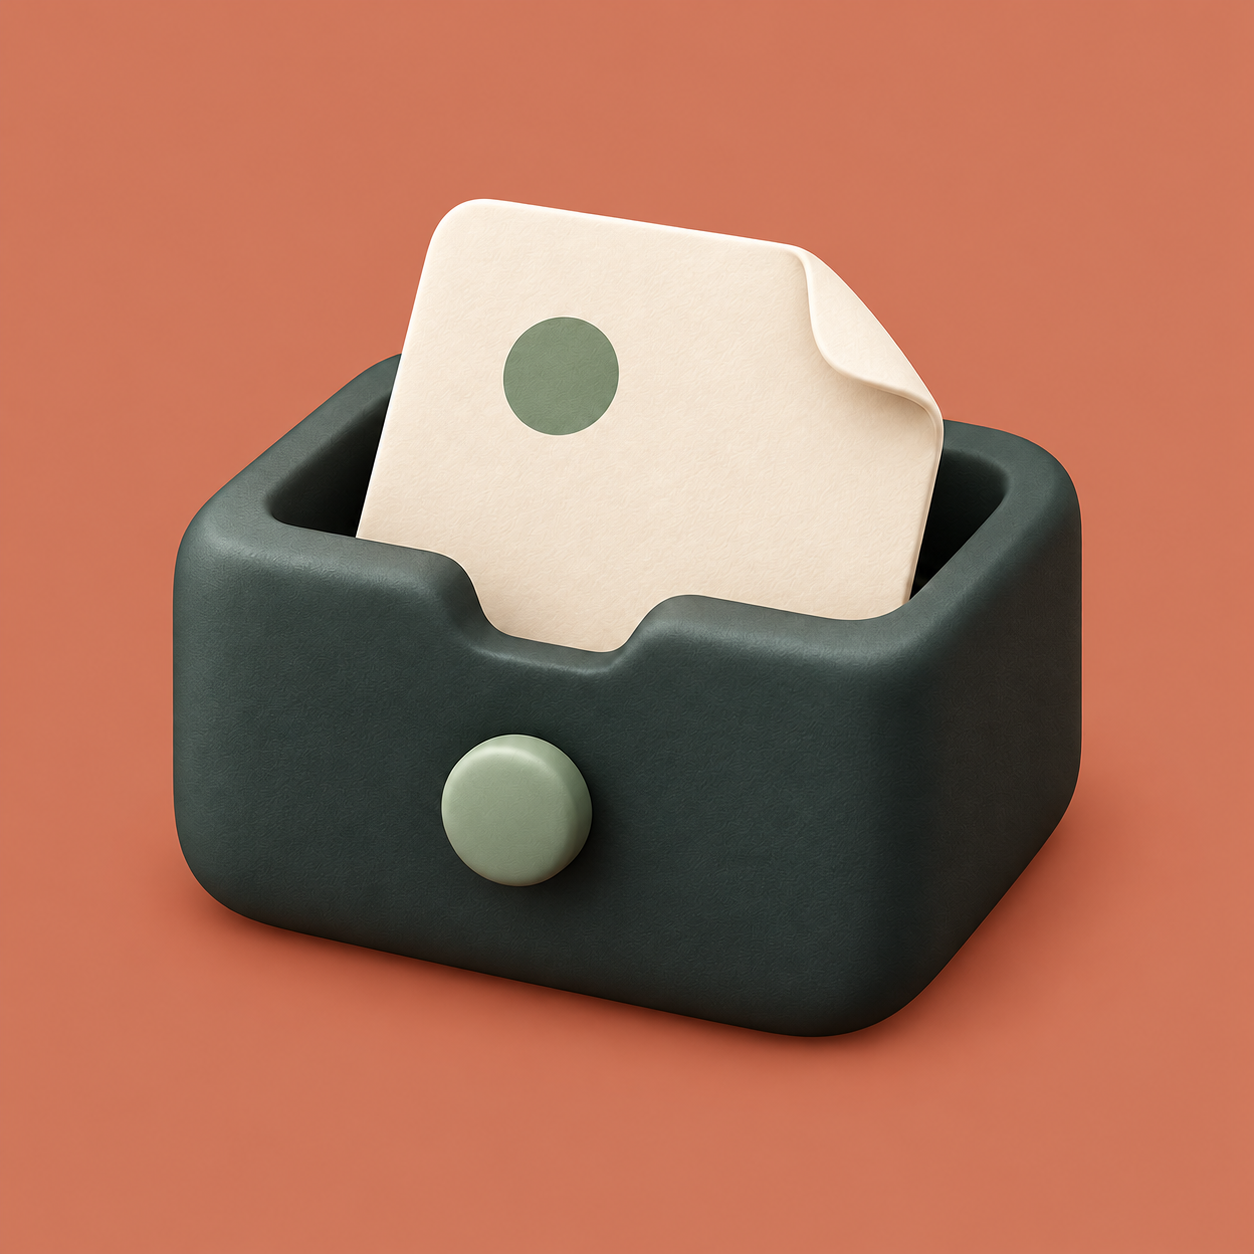
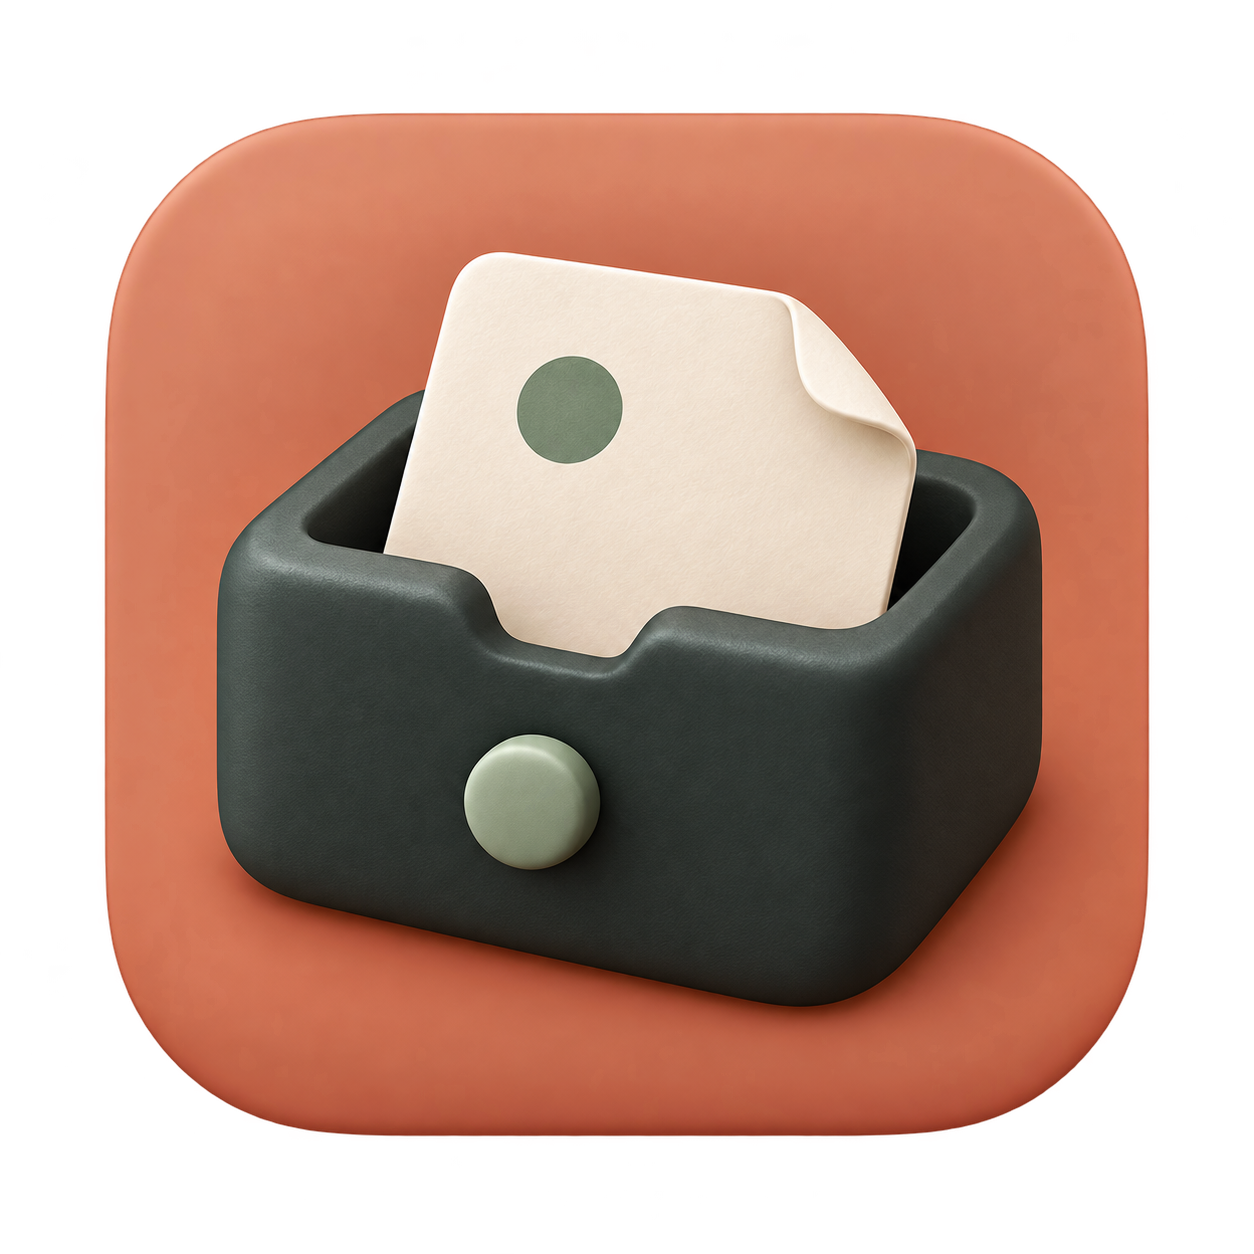
fix: refine 3D macOS artwork and verify shortcut conflicts and DMG layout

diff --git a/NianBox/Views/Settings/ShortcutRecorder.swift b/NianBox/Views/Settings/ShortcutRecorder.swift
@@ -35,11 +35,24 @@ struct ShortcutRecorder: NSViewRepresentable {
         var onRecording: ((Bool) -> Void)?
         var onError: ((String) -> Void)?
         private(set) var recording = false
+        private var sawModifiers = false
         override var acceptsFirstResponder: Bool { true }
+
+        override func viewDidMoveToWindow() {
+            super.viewDidMoveToWindow()
+            NotificationCenter.default.removeObserver(self, name: NSWindow.didResignKeyNotification, object: nil)
+            if let window {
+                NotificationCenter.default.addObserver(self, selector: #selector(windowLostFocus),
+                    name: NSWindow.didResignKeyNotification, object: window)
+            } else { finishRecording() }
+        }
+
+        @objc private func windowLostFocus(_ notification: Notification) { finishRecording() }
 
         @objc func beginRecording() {
             if recording { finishRecording(); return }
             recording = true
+            sawModifiers = false
             onRecording?(true)
             title = "Press shortcut…"
             window?.makeFirstResponder(self)
@@ -53,6 +66,17 @@ struct ShortcutRecorder: NSViewRepresentable {
         }
 
         override func resignFirstResponder() -> Bool { finishRecording(); return super.resignFirstResponder() }
+        override func flagsChanged(with event: NSEvent) {
+            guard recording else { super.flagsChanged(with: event); return }
+            if !event.modifierFlags.intersection([.command, .option, .control, .shift]).isEmpty {
+                sawModifiers = true
+            } else if sawModifiers {
+                // An OS/global binding can consume the character before AppKit sees it.
+                // Detect the completed modifier gesture without adding an event tap or permission prompt.
+                onError?("macOS or another app intercepted this combination. Try another shortcut.")
+                finishRecording()
+            }
+        }
         override func performKeyEquivalent(with event: NSEvent) -> Bool {
             guard recording else { return super.performKeyEquivalent(with: event) }
             keyDown(with: event)

diff --git a/Scripts/render_dmg_background.swift b/Scripts/render_dmg_background.swift
@@ -1,12 +1,14 @@
 import AppKit
 import Foundation
 let output = CommandLine.arguments[1]
-let bitmap = NSBitmapImageRep(bitmapDataPlanes: nil, pixelsWide: 1400, pixelsHigh: 920,
+let scale = Int(CommandLine.arguments[2])!
+precondition([1, 2].contains(scale))
+let bitmap = NSBitmapImageRep(bitmapDataPlanes: nil, pixelsWide: 700 * scale, pixelsHigh: 460 * scale,
     bitsPerSample: 8, samplesPerPixel: 4, hasAlpha: true, isPlanar: false,
     colorSpaceName: .deviceRGB, bytesPerRow: 0, bitsPerPixel: 0)!
 NSGraphicsContext.saveGraphicsState()
 NSGraphicsContext.current = NSGraphicsContext(bitmapImageRep: bitmap)
-let transform = NSAffineTransform(); transform.scale(by: 2); transform.concat()
+let transform = NSAffineTransform(); transform.scale(by: CGFloat(scale)); transform.concat()
 NSColor(calibratedRed: 0.965, green: 0.949, blue: 0.922, alpha: 1).setFill()
 NSRect(x: 0, y: 0, width: 700, height: 460).fill()
 let ink = NSColor(calibratedRed: 0.19, green: 0.24, blue: 0.22, alpha: 1)
@@ -24,4 +26,5 @@ arrow.move(to: NSPoint(x: 375, y: 232)); arrow.line(to: NSPoint(x: 390, y: 217))
 arrow.lineWidth = 3; arrow.lineCapStyle = .round; arrow.lineJoinStyle = .round
 NSColor(calibratedRed: 0.70, green: 0.43, blue: 0.34, alpha: 1).setStroke(); arrow.stroke()
 NSGraphicsContext.restoreGraphicsState()
+bitmap.size = NSSize(width: 700, height: 460)
 try bitmap.representation(using: .png, properties: [:])!.write(to: URL(fileURLWithPath: output))

diff --git a/Scripts/vm_ui_probe.swift b/Scripts/vm_ui_probe.swift
@@ -57,11 +57,23 @@ struct VMUIProbe {
         settle()
     }
     static func key(_ code: CGKeyCode, flags: CGEventFlags = []) {
+        let modifiers: [(CGEventFlags, CGKeyCode)] = [(.maskControl, 59), (.maskAlternate, 58), (.maskShift, 56), (.maskCommand, 55)]
+        var held: CGEventFlags = []
+        for (flag, keyCode) in modifiers where flags.contains(flag) {
+            held.insert(flag)
+            let event = CGEvent(keyboardEventSource: nil, virtualKey: keyCode, keyDown: true)!
+            event.flags = held; event.post(tap: .cghidEventTap); settle(0.04)
+        }
         for down in [true, false] {
             let event = CGEvent(keyboardEventSource: nil, virtualKey: code, keyDown: down)!
-            event.flags = down ? flags : []
+            event.flags = flags
             event.post(tap: .cghidEventTap)
             settle(0.05)
+        }
+        for (flag, keyCode) in modifiers.reversed() where flags.contains(flag) {
+            held.remove(flag)
+            let event = CGEvent(keyboardEventSource: nil, virtualKey: keyCode, keyDown: false)!
+            event.flags = held; event.post(tap: .cghidEventTap); settle(0.04)
         }
         settle()
     }

diff --git a/Scripts/package_dmg.py b/Scripts/package_dmg.py
@@ -9,13 +9,16 @@ import plistlib
 import shutil
 import subprocess
 import tempfile
+import dmgbuild
 from ds_store import DSStore
-from mac_alias import Alias
 
 ROOT = Path(__file__).resolve().parent.parent
 
 def run(*command):
-    return subprocess.check_output([str(x) for x in command], stderr=subprocess.PIPE)
+    try:
+        return subprocess.check_output([str(x) for x in command], stderr=subprocess.PIPE)
+    except subprocess.CalledProcessError as error:
+        raise RuntimeError(error.stderr.decode(errors='replace').strip()) from error
 
 def mount(image, point, readonly=False):
     command = ['hdiutil', 'attach', '-nobrowse', '-noautoopen', '-mountpoint', str(point), '-plist']
@@ -29,7 +32,7 @@ def inspect(mounted, version):
     assert info['CFBundleIdentifier'] == 'org.nianbox.NianBox'
     assert info['CFBundleShortVersionString'] == version
     assert os.readlink(mounted / 'Applications') == '/Applications'
-    assert (mounted / '.background/background.png').is_file()
+    assert (mounted / '.background.tiff').is_file()
     assert (mounted / 'READ ME.txt').is_file()
     run('codesign', '--verify', '--strict', '--deep', app)
     architectures = run('lipo', '-archs', app / 'Contents/MacOS/NianBox').decode().split()
@@ -41,6 +44,8 @@ def inspect(mounted, version):
     with DSStore.open(str(mounted / '.DS_Store'), 'r') as store:
         assert store['.']['vSrn'] == (b'long', 1)
         assert store['.']['icvp']['backgroundType'] == 2
+        assert store['.']['icvp']['iconSize'] == 96.0
+        assert store['.']['bwsp']['WindowBounds'] == '{{160, 160}, {700, 460}}'
         assert store['NianBox.app']['Iloc'] == (180, 235)
         assert store['Applications']['Iloc'] == (520, 235)
     return {'version': version, 'architectures': architectures, 'bundleID': info['CFBundleIdentifier'],
@@ -75,11 +80,10 @@ def main():
         output.parent.mkdir(parents=True, exist_ok=True)
         staging = workspace / 'staging'
         staging.mkdir()
-        run('ditto', app, staging / 'NianBox.app')
-        (staging / 'Applications').symlink_to('/Applications')
-        (staging / '.background').mkdir()
-        run('swift', '-module-cache-path', workspace / 'swift-cache', ROOT / 'Scripts/render_dmg_background.swift',
-            staging / '.background/background.png')
+        for scale in (1, 2):
+            background = staging / ('background.png' if scale == 1 else 'background@2x.png')
+            run('swift', '-module-cache-path', workspace / 'swift-cache', ROOT / 'Scripts/render_dmg_background.swift',
+                background, scale)
         (staging / 'READ ME.txt').write_text(
             '念匣 · NianBox\n\n1. 将 NianBox 拖到 Applications。\n2. 从应用程序打开 NianBox。\n'
             '3. 从菜单栏进入设置；点击 Quick capture shortcut 可录制快捷键。\n'
@@ -90,31 +94,26 @@ def main():
             'review System Settings → Privacy & Security → Open Anyway. Keep Gatekeeper enabled.\n\n'
             'https://github.com/takboo/nianbox\n', encoding='utf-8')
         shutil.copyfile(ROOT / 'LICENSE', staging / 'LICENSE.txt')
-        writable = workspace / 'layout.dmg'
-        run('hdiutil', 'create', '-volname', 'NianBox', '-fs', 'HFS+', '-format', 'UDRW',
-            '-srcfolder', staging, writable)
-        mount(writable, point)
+        candidate = workspace / 'final.dmg'
+        # dmgbuild writes complete Finder view settings and a multi-resolution TIFF,
+        # without AppleScript, Finder automation, Accessibility or host input.
+        dmgbuild.build_dmg(str(candidate), 'NianBox', settings={
+            'format': 'UDZO', 'compression_level': 9, 'filesystem': 'HFS+',
+            'files': [str(app), str(staging / 'READ ME.txt'), str(staging / 'LICENSE.txt')],
+            'symlinks': {'Applications': '/Applications'},
+            'background': str(staging / 'background.png'),
+            'window_rect': ((160, 160), (700, 460)),
+            'icon_size': 96, 'text_size': 14,
+            'default_view': 'icon-view', 'include_icon_view_settings': True,
+            'include_list_view_settings': False,
+            'icon_locations': {'NianBox.app': (180, 235), 'Applications': (520, 235),
+                               'READ ME.txt': (750, 600), 'LICENSE.txt': (850, 600)},
+        })
+        mount(candidate, point, readonly=True)
         try:
-            with DSStore.open(str(point / '.DS_Store'), 'w+') as store:
-                store['.']['bwsp'] = {'ShowStatusBar': False, 'ShowToolbar': False,
-                    'ShowPathbar': False, 'ShowSidebar': False, 'WindowBounds': '{{160, 160}, {700, 460}}'}
-                store['.']['icvp'] = {'viewOptionsVersion': 1, 'backgroundType': 2,
-                    'backgroundImageAlias': Alias.for_file(str(point / '.background/background.png')).to_bytes(),
-                    'iconSize': 96.0, 'textSize': 14.0, 'labelOnBottom': True,
-                    'showIconPreview': False, 'showItemInfo': False, 'arrangeBy': 'none',
-                    'gridSpacing': 100.0, 'gridOffsetX': 0.0, 'gridOffsetY': 0.0,
-                    'scrollPositionX': 0.0, 'scrollPositionY': 0.0}
-                store['.']['vSrn'] = ('long', 1)
-                store['.']['icvl'] = ('type', b'icnv')
-                store['NianBox.app']['Iloc'] = (180, 235)
-                store['Applications']['Iloc'] = (520, 235)
-                store['READ ME.txt']['Iloc'] = (750, 600)
-                store['LICENSE.txt']['Iloc'] = (850, 600)
             inspect(point, version)
         finally:
             run('hdiutil', 'detach', point)
-        candidate = workspace / 'final.dmg'
-        run('hdiutil', 'convert', writable, '-format', 'UDZO', '-imagekey', 'zlib-level=9', '-o', candidate)
         # Exclusively create the destination; a retry cannot replace another release artifact.
         with candidate.open('rb') as source, output.open('xb') as target:
             shutil.copyfileobj(source, target)

diff --git a/Scripts/vm_ui_smoke.py b/Scripts/vm_ui_smoke.py
@@ -16,6 +16,7 @@ parser.add_argument('--source', type=Path, required=True)
 parser.add_argument('--output', type=Path, required=True)
 parser.add_argument('--fixture', type=Path)
 parser.add_argument('--shortcut-holder', type=Path)
+parser.add_argument('--only', action='append', help='Run only the named check (repeatable)')
 args = parser.parse_args()
 model = subprocess.check_output(['/usr/sbin/sysctl', '-n', 'hw.model'], text=True).strip()
 if not model.startswith('VirtualMac'):
@@ -122,6 +123,8 @@ def task_id(title):
 
 
 def check(name, function):
+    if args.only and name not in args.only:
+        return
     started = time.monotonic()
     try:
         function()
@@ -251,7 +254,7 @@ def hermes():
 
 def configurable_shortcut():
     launch(normal=True)
-    probe('key', 'shortcut')
+    probe('move', '1439', '1')
     probe('click', 'id=settings-button')
     control = 'id=quick-capture-shortcut'
     wait(control)
@@ -265,7 +268,7 @@ def configurable_shortcut():
             assert holder.stdout.readline().strip() == 'READY'
             probe('click', control)
             probe('key', 'captureL')
-            assert any('unavailable' in str(n) for n in nodes()), 'Conflict was not reported'
+            assert any('unavailable' in str(n) or 'intercepted' in str(n) for n in nodes()), 'Conflict was not reported'
             wait('text=⌃⌥K')
             capture('shortcut-conflict-retains-setting')
         finally:
@@ -284,6 +287,13 @@ def configurable_shortcut():
     probe('key', 'captureK')
     wait('id=new-task-title')
     wait('text=' + title)
+    probe('click', 'id=settings-button')
+    wait(control)
+    # Leaving a recording window must restore the saved global binding too.
+    probe('click', control)
+    subprocess.run(['/usr/bin/open', '-a', 'Finder'], check=True)
+    probe('key', 'captureK')
+    wait('id=new-task-title')
     probe('click', 'id=settings-button')
     wait(control)
     probe('click', control); probe('key', 'delete')

diff --git a/Branding/README.md b/Branding/README.md
@@ -1,6 +1,6 @@
 # NianBox artwork
 
-The selected direction is D, a dark green 3D memory drawer with an ivory note and sage accents on terracotta. The user requested preserving the original 3D identity after rejecting a flat simplification. `AppIcon-source.png` is the imagegen master, saved in this repository. It is rendered into the standard 16–1024 px asset catalog sizes; the background is opaque and fills the square canvas so macOS can apply its current icon mask. The menu bar uses a reduced, monochrome paper/drawer template for small-size contrast. Preview variants stay outside Git.
+The selected direction is D, a dark green 3D memory drawer with an ivory note and sage accents on terracotta. The user requested preserving the original 3D identity after rejecting a flat simplification. `AppIcon-source.png` is the built-in imagegen master, saved in this repository. It is rendered into the standard 16–1024 px asset catalog sizes. A rounded terracotta plate and transparent outer margin give macOS 14/15 a finished icon silhouette; the 3D subject sits inside the plate with breathing room. The menu bar uses a reduced, monochrome paper/drawer template for small-size contrast. Preview variants stay outside Git.
 
 Regenerate technical exports with:
 
@@ -10,6 +10,6 @@ swift Scripts/generate_app_icon.swift Branding/AppIcon-source.png NianBox/Resour
 
 Built-in imagegen edit prompt for the final master:
 
-> Preserve the original 3D drawer, sage round knob, ivory folded note with sage dot and subtle isometric perspective. Refine the background and safe-area proportions for a macOS application icon, with a calm muted terracotta square, balanced soft light and breathing room. Keep the tactile 3D character; no text, labels, watermark or baked outer rounded frame. Do not use the rejected flat geometric redesign.
+> Preserve the original dark ink-green 3D drawer, sage round knob, ivory folded note with sage dot, viewpoint, lighting and tactile materials. Change only packaging and scale: a centered rounded-square terracotta plate occupies about 88 percent of the square canvas, with genuine transparency outside; the complete object occupies about 68 percent of the canvas, inside the plate with breathing room. Keep soft depth and contact shadow. No flat redesign, text, lettering, watermark, border or additional marks.
 
 No third-party symbol is used as the application icon. This repository's MIT license applies to the exported assets.

diff --git a/docs/verification.md b/docs/verification.md
@@ -96,4 +96,4 @@ See [Hermes](hermes.md), [deployment/restore](deployment.md) and [sync contract]
 
 The user explicitly requested publication of a new version, a matching `stable` image, automatic DMG releases, a corrected project link, configurable capture keys and new artwork. The chosen design is original D with its 3D drawer/note identity retained; a flat simplification was rejected. The final imagegen master is stored in `Branding/` and technical app/menu exports are committed.
 
-Local checks so far: **19 server tests and 65 macOS unit tests passed**, deterministic generation and Actionlint passed. The Universal Release app builds with arm64/x86_64 slices and only the existing three sandbox entitlements. A headlessly generated DMG mounts and passes layout, Applications-link, architecture and signature checks. Runtime container checks passed for the 0.2.0 server. VM shortcut/installation checks and remote tag/release/stable publication are pending; this section will be updated with actual results before delivery.
+Local checks so far: **19 server tests and 65 macOS unit tests passed**, deterministic generation and Actionlint passed. The Universal Release app builds with arm64/x86_64 slices and only the existing three sandbox entitlements. The Universal DMG passes headless layout, Applications-link, architecture and signature checks. A first VM Finder check exposed incomplete view settings (blank background and default icon size); packaging now uses pinned dmgbuild with a 1x/2x TIFF, and a second VM screenshot confirms the designed background, 96-point icons and drag guidance. The final icon preserves D's 3D drawer and adds a rounded terracotta plate with transparent outer padding for macOS 14/15. Runtime container checks passed for the 0.2.0 server. A targeted VM check passed custom shortcut recording, global activation, conflict detection, disk reopen, disabling and restoring default. Modifier release detects combinations consumed by another global binding without adding an event tap or requesting Accessibility. Recording also cancels on window focus loss. A final run bound to the committed build and remote tag/release/stable publication remain pending.
